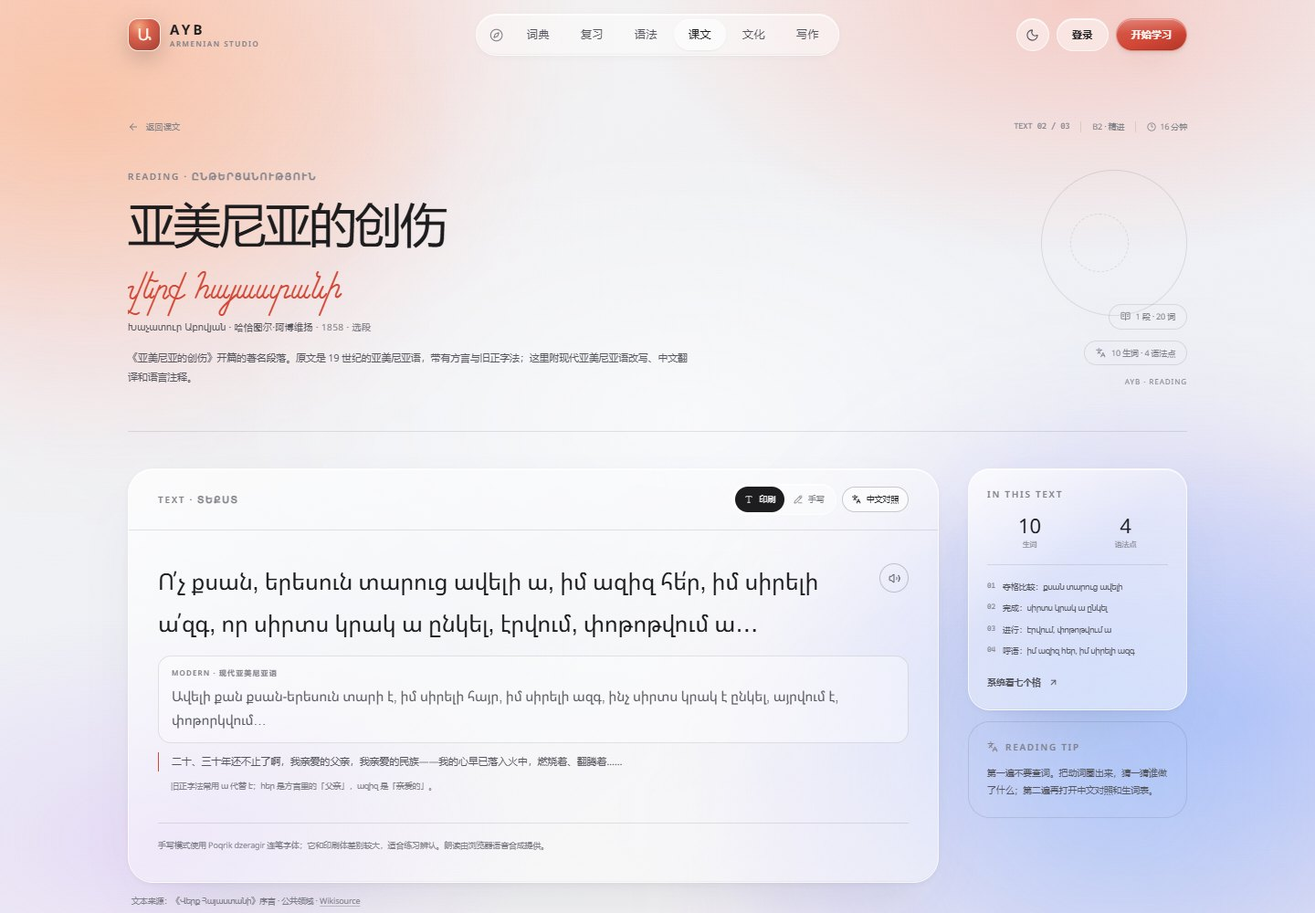
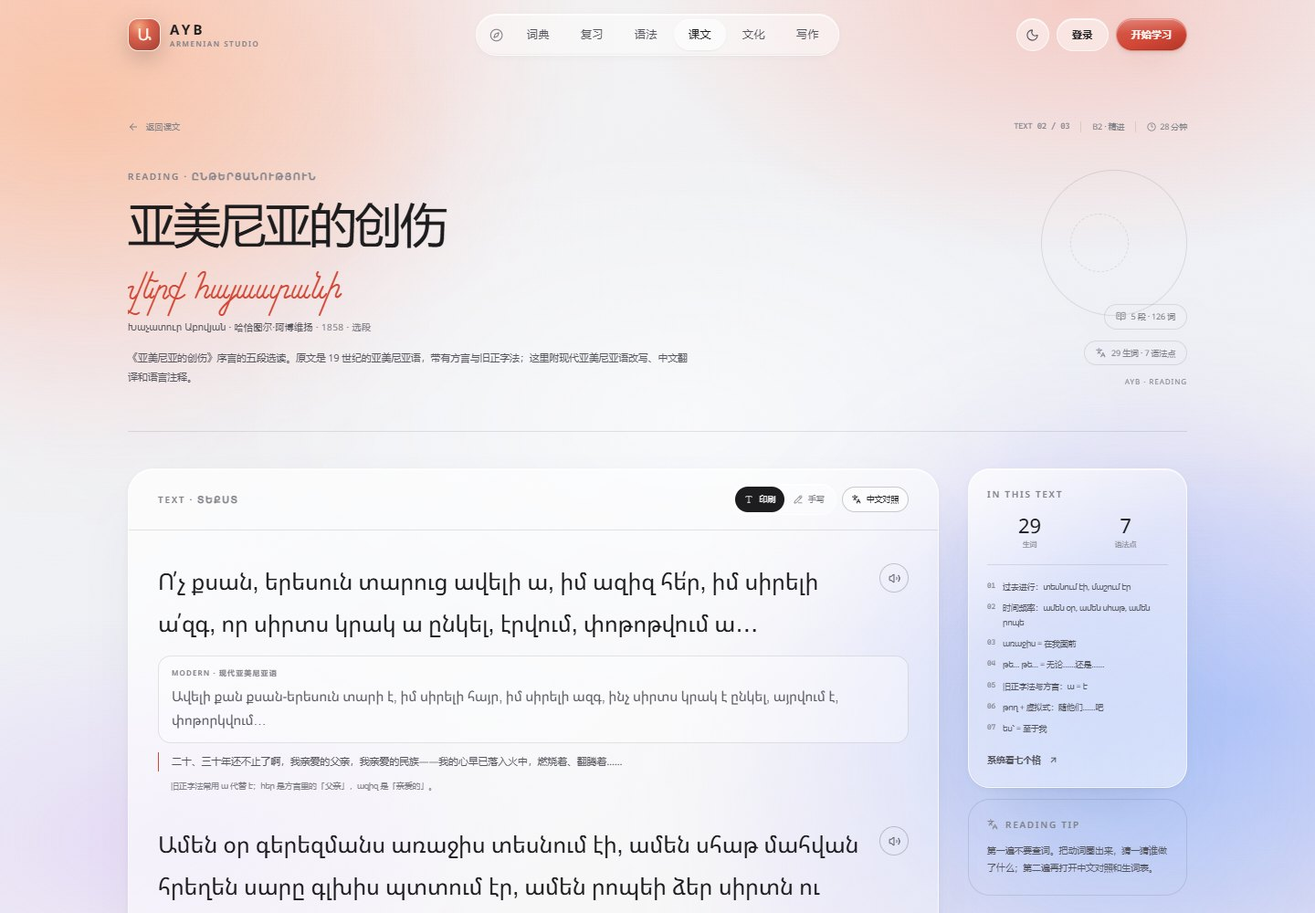
feat: expand the literary readings into full passages
Grow the Abovyan excerpt from one sentence to five paragraphs from the preface, with modern paraphrases, 29 vocabulary entries, and seven grammar notes. Include all four stanzas of Charents's poem with a line-by-line translation, 37 vocabulary entries, and five grammar notes. Preserve poetic line breaks in the reading viewer and refresh documentation screenshots.

diff --git a/src/data/reading/02-wounds-of-armenia.ts b/src/data/reading/02-wounds-of-armenia.ts
@@ -4,12 +4,12 @@ export const woundsOfArmenia: ReadingText = {
   id: "wounds-of-armenia",
   order: 2,
   level: "B2",
-  minutes: 16,
+  minutes: 28,
   title: "亚美尼亚的创伤",
   titleHy: "Վերք Հայաստանի",
   subtitle: "阿博维扬：把民族的痛写成一封长信",
   description:
-    "《亚美尼亚的创伤》开篇的著名段落。原文是 19 世纪的亚美尼亚语，带有方言与旧正字法；这里附现代亚美尼亚语改写、中文翻译和语言注释。",
+    "《亚美尼亚的创伤》序言的五段选读。原文是 19 世纪的亚美尼亚语，带有方言与旧正字法；这里附现代亚美尼亚语改写、中文翻译和语言注释。",
   author: "Խաչատուր Աբովյան · 哈恰图尔·阿博维扬",
   authorHy: "Խաչատուր Աբովյան",
   year: "1858",
@@ -24,60 +24,136 @@ export const woundsOfArmenia: ReadingText = {
       zh: "二十、三十年还不止了啊，我亲爱的父亲，我亲爱的民族——我的心早已落入火中，燃烧着、翻腾着……",
       note: "旧正字法常用 ա 代替 է；հեր 是方言里的「父亲」，ազիզ 是「亲爱的」。",
     },
+    {
+      hy: "Ամեն օր գերեզմանս առաջիս տեսնում էի, ամեն սհաթ մահվան հրեղեն սարը գլխիս պտտում էր, ամեն րոպեի ձեր սիրտն ու դարդը հոգիս էրում, մաշում էր…",
+      modernHy:
+        "Ամեն օր գերեզմանս առաջիս էի տեսնում, ամեն ժամ մահվան հրեղեն սարը գլխիս պտտվում էր, ամեն րոպե ձեր սիրտն ու դարդը հոգիս այրում, մաշում էր…",
+      zh: "每一天，我都看见自己的坟墓在眼前；每一个时辰，死亡那火焰般的山都在我头顶盘旋；每一分钟，你们的心和忧愁都在灼烧、消耗我的灵魂……",
+      note: "սհաթ 是方言里的「时辰、小时」，标准语是 ժամ；դարդ 是「忧愁、痛」。",
+    },
+    {
+      hy: "Մասիս առաջիս էր կանգնած միշտ, որ մատով ցույց էր տալիս, թե ի՞նչ աշխարքի ծնունդ եմ ես. դրախտը մտքումս էր կենդանի, որ ինձ, երազում թե լուրջ, միշտ մեր երկրի անունն ու պատվականությունը իմ առաջս էր բերում…",
+      modernHy:
+        "Մասիսը միշտ առաջիս կանգնած էր ու մատով ցույց էր տալիս, թե ես ո՞ր աշխարհի ծնունդն եմ. դրախտը մտքումս կենդանի էր, որ ինձ՝ երազում թե արթուն, միշտ մեր երկրի անունն ու պատիվը առաջս էր բերում…",
+      zh: "马西斯山总是站在我面前，用手指着我，仿佛在问：我究竟是哪个世界的孩子。天堂在我心里活着；无论梦境还是现实，它总把我们国家的名字与尊严带到我眼前……",
+      note: "Մասիս 是亚拉拉特山的亚美尼亚语名字；աշխարք 是方言里的「世界」，标准语是 աշխարհ。",
+    },
+    {
+      hy: "Մեկ ազգի պահողն էլ լեզուն ա ու հավատը, թե սրանց էլ կորցնենք՝ վա՜յն էկել ա մեր օրին։",
+      modernHy:
+        "Ազգը պահողը լեզուն ու հավատն են. եթե սրանք էլ կորցնենք՝ վայ մեր օրին։",
+      zh: "维系一个民族的，是它的语言与信仰；如果连这些也失去，我们的末日就来了。",
+      note: "վա՜յն էկել ա մեր օրին 是一句口语化的感叹：「我们的日子完了」。",
+    },
+    {
+      hy: "Թո՛ղ ինձ այսուհետև տգետ կանչեն. լեզուս բաց ա էլել, ի՛մ ընտիր, ազիզ, ի՛մ սրտի սիրեկան ազգ։ Թո՛ղ տրամաբանություն գիտեցողը իրան համքյարի համար գրի, ես՝ քո կորած, շվարած որդին, քեզ համար։",
+      modernHy:
+        "Թող ինձ այսուհետև տգետ կոչեն. լեզուս բացվել է, իմ ընտիր, ազիզ, իմ սրտի սիրելի ազգ։ Թող տրամաբանություն իմացողը գրի իր գործընկերոջ համար, ես՝ քո կորած, շվարած որդին, քեզ համար։",
+      zh: "从今以后，随他们叫我无知吧。我的舌头已经打开了，我亲爱的、珍贵的、我心中的爱人——我的民族。让懂逻辑的人为他的同行写作吧；我，你迷失的、彷徨的儿子，为你而写。",
+      note: "համքյար 是方言里的「同行、同事」；շվարած 是「彷徨的、不知所措的」。",
+    },
   ],
   vocabulary: [
+    { hy: "գերեզման", translit: "gerezmán", zh: "坟墓" },
+    { hy: "հրեղեն", translit: "hreghén", zh: "火焰般的；炽烈的" },
+    { hy: "սհաթ", translit: "shat", zh: "时辰；小时", note: "方言；标准语 ժամ" },
+    { hy: "դարդ", translit: "dard", zh: "忧愁；痛苦" },
+    { hy: "հոգի", translit: "hogi", zh: "灵魂；心" },
+    { hy: "մաշել", translit: "mashel", zh: "消耗；磨损" },
+    { hy: "քաղցր", translit: "k'aghc'r", zh: "甜的；甜美的" },
+    { hy: "ձեն", translit: "dzen", zh: "声音", note: "方言；标准语 ձայն" },
+    { hy: "սիրուն", translit: "sirun", zh: "美丽的；可爱的" },
+    { hy: "ազնիվ", translit: "azniv", zh: "诚实的；高尚的" },
+    { hy: "կամք", translit: "kamk'", zh: "意志" },
+    { hy: "վայելել", translit: "vayelel", zh: "享受；体验" },
     { hy: "ազիզ", translit: "aziz", zh: "亲爱的；珍贵的", note: "方言/口语色彩" },
-    { hy: "հեր", translit: "her", zh: "父亲", note: "方言；标准语是 հայր" },
-    { hy: "ազգ", translit: "azg", zh: "民族；族群" },
-    { hy: "քսան", translit: "k'san", zh: "二十" },
-    { hy: "երեսուն", translit: "eresun", zh: "三十" },
-    { hy: "ավելի", translit: "aveli", zh: "更多；更" },
-    { hy: "սիրտ", translit: "sirt", zh: "心" },
-    { hy: "կրակ", translit: "krak", zh: "火" },
-    { hy: "այրվել", translit: "ayrvel", zh: "燃烧；被烧" },
-    { hy: "փոթոթվել", translit: "p'ot'ot'vel", zh: "翻腾；激动不安" },
+    { hy: "բարեկամություն", translit: "barekamut'yun", zh: "友谊" },
+    { hy: "Մասիս", translit: "Masis", zh: "马西斯（亚拉拉特山）" },
+    { hy: "աշխարք", translit: "ashkhark'", zh: "世界", note: "方言；标准语 աշխարհ" },
+    { hy: "դրախտ", translit: "drakht", zh: "天堂；乐园" },
+    { hy: "պատվականություն", translit: "patvakanut'yun", zh: "尊严；荣誉" },
+    { hy: "պահող", translit: "pahogh", zh: "维系者；守护者" },
+    { hy: "հավատ", translit: "havat", zh: "信仰" },
+    { hy: "վայ", translit: "vay", zh: "哎呀；悲哀", note: "感叹词" },
+    { hy: "տգետ", translit: "tget", zh: "无知的；未受教育的" },
+    { hy: "ընտիր", translit: "entir", zh: "精选的；优秀的" },
+    { hy: "սիրեկան", translit: "sirekan", zh: "心爱的人；爱人" },
+    { hy: "տրամաբանություն", translit: "tramabanut'yun", zh: "逻辑" },
+    { hy: "համքյար", translit: "hamk'yar", zh: "同行；同事", note: "方言/口语" },
+    { hy: "կորած", translit: "korats", zh: "迷失的；丢失的" },
+    { hy: "շվարած", translit: "shvarats", zh: "彷徨的；不知所措的" },
+    { hy: "որդի", translit: "vordi", zh: "儿子" },
   ],
   grammarPoints: [
     {
-      title: "夺格比较：քսան տարուց ավելի",
+      title: "过去进行：տեսնում էի, մաշում էր",
       explanation:
-        "「比……更多」用夺格 + ավելի：քսան տարուց ավելի = 比二十年更多。比较的对象用 -ից。",
+        "「那时我每天看见」「它正在消耗」用过去进行时：动词 -ում 形式 + էի/էր/էին。它描述过去的持续状态，而不是一次完成的动作。",
       examples: [
-        { hy: "Քսան տարուց ավելի է։", zh: "已经超过二十年了。" },
-        { hy: "Երեսուն տարուց ավելի է անցել։", zh: "三十多年过去了。" },
+        { hy: "Ամեն օր գերեզմանս առաջիս տեսնում էի։", zh: "那时我每天都看见自己的坟墓在眼前。" },
+        { hy: "Ձեր դարդը հոգիս էրում էր։", zh: "你们的忧愁在灼烧我的灵魂。" },
       ],
     },
     {
-      title: "完成：սիրտս կրակ ա ընկել",
+      title: "时间频率：ամեն օր, ամեն սհաթ, ամեն րոպե",
       explanation:
-        "「心已经落入火中」用完成时 ընկել է（口语里读作 ա）。它强调动作造成的结果，而不是单纯的过去。",
+        "「每一天 / 每一个时辰 / 每一分钟」用 ամեն + 时间名词，不需要介词。现代亚美尼亚语里更常说 ամեն օր, ամեն ժամ, ամեն րոպե。",
       examples: [
-        { hy: "Սիրտս կրակ է ընկել։", zh: "我的心已经落入火中。" },
-        { hy: "Նա արդեն տուն է գնացել։", zh: "他已经回家了。" },
+        { hy: "Ամեն օր կարդում եմ։", zh: "我每天读书。" },
+        { hy: "Ամեն րոպե մտածում եմ քո մասին։", zh: "我每一分钟都在想你。" },
       ],
     },
     {
-      title: "进行：էրվում, փոթոթվում ա",
+      title: "առաջիս = 在我面前",
       explanation:
-        "现在时词干 + -ում է 表示正在进行：「正在燃烧、正在翻腾」。文学文本常用连续两个进行时来加强节奏。",
+        "առաջ 是「前面」，加上第一人称所有格 -ս 变成 առաջիս（在我面前）。同类还有 քո առաջդ（在你面前）、նրա առաջ（在他面前）。",
       examples: [
-        { hy: "Սիրտս էրվում է։", zh: "我的心在燃烧。" },
-        { hy: "Ծովը փոթորկվում է։", zh: "海在翻腾。" },
+        { hy: "Մասիսը առաջիս էր։", zh: "马西斯山在我面前。" },
+        { hy: "Քո առաջդ մի գիրք կա։", zh: "你面前有一本书。" },
       ],
     },
     {
-      title: "呼语：իմ ազիզ հեր, իմ սիրելի ազգ",
+      title: "թե… թե… = 无论……还是……",
       explanation:
-        "իմ + 名词是「我的……」。在呼语里，说话人直接对「父亲」「民族」说话，所以没有动词主语，语气也更强烈。",
+        "երազում թե լուրջ 字面是「在梦里还是认真/醒着」，意即「无论梦境还是现实」。թե 在这里连接两个并列的可能。",
       examples: [
-        { hy: "Իմ սիրելի ազգ։", zh: "我亲爱的民族。" },
-        { hy: "Իմ ազիզ հեր։", zh: "我亲爱的父亲。" },
+        { hy: "Երազում թե արթուն, միշտ մտածում եմ։", zh: "无论做梦还是醒着，我都在想。" },
+        { hy: "Թե՛ այսօր, թե՛ վաղը։", zh: "无论今天还是明天。" },
+      ],
+    },
+    {
+      title: "旧正字法与方言：ա = է",
+      explanation:
+        "19 世纪文本常把 է 写成 ա，把 ժամ 写成 սհաթ，把 աշխարհ 写成 աշխարք，把 ձայն 写成 ձեն。读原文时先按现代发音理解，再注意这些对应关系。",
+      examples: [
+        { hy: "Սիրտս կրակ ա ընկել։", zh: "现代写法：Սիրտս կրակ է ընկել。" },
+        { hy: "Մեկ ազգի պահողն էլ լեզուն ա։", zh: "现代写法：… լեզուն է。" },
+      ],
+    },
+    {
+      title: "թող + 虚拟式：随他们……吧",
+      explanation:
+        "թող 放在句首，后面的动词用虚拟式（կանչեն, գրի），表示「让/随……吧」。它可以是许可，也可以是一种带情绪的让步。",
+      examples: [
+        { hy: "Թո՛ղ ինձ տգետ կանչեն։", zh: "随他们叫我无知吧。" },
+        { hy: "Թո՛ղ նա գրի։", zh: "让他写吧。" },
+      ],
+    },
+    {
+      title: "ես՝ = 至于我",
+      explanation:
+        "ես 后面的 ՝ 是停顿/对比标记，意思是「至于我」。它把「别人」和「我」放在一起对照：让懂逻辑的人为同行写，至于我，为你写。",
+      examples: [
+        { hy: "Ես՝ քեզ համար։", zh: "至于我，是为你。" },
+        { hy: "Նա՝ իր համար, ես՝ իմը։", zh: "他为他自己的，我为我的。" },
       ],
     },
   ],
   takeaways: [
-    "这是 19 世纪文本：旧正字法、方言词和现代亚美尼亚语并不完全一样。",
-    "「比……更多」用夺格 + ավելի：տարուց ավելի。",
-    "完成时强调结果：կրակ է ընկել = 已经落入火中。",
+    "这五段都来自序言：阿博维扬不是在讲情节，而是在解释自己为什么必须写这本书。",
+    "过去进行 -ում էի/էր 描写持续的痛感；ամեն օր/սհաթ/րոպե 把时间切成越来越细的片段。",
+    "Մասիս（亚拉拉特山）在文本里不是风景，而是身份的发问者。",
+    "「语言与信仰维系民族」是全文的核心句，也是 19 世纪亚美尼亚启蒙运动的常见主题。",
+    "结尾的「让懂逻辑的人为同行写，我为你写」把这本书献给了普通读者，而不是学院。",
   ],
 };

diff --git a/src/data/reading/03-charents.ts b/src/data/reading/03-charents.ts
@@ -4,12 +4,12 @@ export const charentsHayastani: ReadingText = {
   id: "charents-hayastani",
   order: 3,
   level: "B1",
-  minutes: 10,
+  minutes: 16,
   title: "我爱我甜蜜的亚美尼亚",
   titleHy: "Ես իմ անուշ Հայաստանի",
   subtitle: "恰连茨：把祖国写成一个可以尝到的词",
   description:
-    "恰连茨最著名的诗句之一。两行诗里有一个属格、一个复合形容词和一个被放到句末的动词，适合拿来理解亚美尼亚语诗歌的语序。",
+    "恰连茨最著名的抒情诗之一，共四节。诗人从「词」写到琴弦、山、湖、茅屋、书和伤口，最后落在亚拉拉特山。这里保留全诗四节，并附逐节中文翻译和语言注释。",
   author: "Եղիշե Չարենց · 耶吉舍·恰连茨",
   authorHy: "Եղիշե Չարենց",
   year: "1920",
@@ -17,9 +17,24 @@ export const charentsHayastani: ReadingText = {
   source: "《Ես իմ անուշ Հայաստանի》· 公共领域",
   paragraphs: [
     {
-      hy: "Ես իմ անուշ Հայաստանի\nարևահամ բառն եմ սիրում։",
-      zh: "我爱我甜蜜的亚美尼亚，那被阳光浸透的词。",
+      hy: "Ես իմ անուշ Հայաստանի արևահամ բառն եմ սիրում,\nՄեր հին սազի ողբանվագ, լացակումած լարն եմ սիրում,\nԱրնանման ծաղիկների ու վարդերի բույրը վառման,\nՈւ նաիրյան աղջիկների հեզաճկուն պա՛րն եմ սիրում։",
+      zh: "我爱我甜蜜的亚美尼亚，那被阳光浸透的词，\n我爱我们古老萨兹琴那哀歌般、含泪的弦，\n那血一般红的花朵与玫瑰炽热的芬芳，\n还有奈里少女柔韧的舞，我都爱。",
       note: "բառն = բառ + -ն（定冠词）；արևահամ 字面是「太阳的味道」。",
+    },
+    {
+      hy: "Սիրում եմ մեր երկինքը մուգ, ջրերը ջինջ, լիճը լուսե,\nԱրևն ամռան ու ձմեռվա վիշապաձայն բուքը վսեմ,\nՄթում կորած խրճիթների անհյուրընկալ պատերը սև,\nՈւ հնամյա քաղաքների հազարամյա քա՛րն եմ սիրում։",
+      zh: "我爱我们幽暗的天空、清澈的水、明亮的湖，\n夏日骄阳与冬日巨龙般咆哮的庄严暴风雪，\n黑暗中迷失的茅屋那冷漠的黑色墙壁，\n还有古老城市千年的石头，我都爱。",
+      note: "երկինքը մուգ = 幽暗的天空；ջրերը ջինջ = 清澈的水；բուք = 暴风雪。",
+    },
+    {
+      hy: "Ո՛ւր էլ լինեմ — չե՛մ մոռանա ես ողբաձայն երգերը մեր,\nՉե՜մ մոռանա աղոթք դարձած երկաթագիր գրքերը մեր,\nԻնչքան էլ սո՜ւր սիրտս խոցեն արյունաքամ վերքերը մեր —\nԷլի՛ ես որբ ու արնավառ իմ Հայաստան — յա՛րն եմ սիրում։",
+      zh: "无论我身在何处——我不会忘记我们那哀歌般的歌，\n不会忘记我们那化作祈祷的铁字书，\n无论我们流血枯竭的伤口多么隐秘地刺痛我的心——\n我仍然爱我这孤儿般、浸满鲜血的亚美尼亚——我的爱人。",
+      note: "որբ = 孤儿；արնավառ = 被血染亮的；յար = 爱人、心爱的人。",
+    },
+    {
+      hy: "Իմ կարոտած սրտի համար ո՛չ մի ուրիշ հեքիաթ չկա․\nՆարեկացու, Քուչակի պես լուսապսակ ճակատ չկա․\nԱշխա՛րհ անցի՛ր, Արարատի նման ճերմակ գագաթ չկա․\nԻնչպես անհաս փառքի ճամփա՝ ես իմ Մասիս սա՛րն եմ սիրում։",
+      zh: "对我这思念的心，没有别的童话；\n没有像纳雷卡齐、库恰克那样光环笼罩的额头；\n让世界过去吧，没有像亚拉拉特那样洁白的峰顶；\n像一条通往不可企及之荣耀的路——我爱我的马西斯山。",
+      note: "Նարեկացի（纳雷卡齐）与 Քուչակ（库恰克）都是亚美尼亚中世纪诗人；Մասիս 是亚拉拉特山。",
     },
   ],
   vocabulary: [
@@ -27,40 +42,91 @@ export const charentsHayastani: ReadingText = {
     { hy: "Հայաստան", translit: "Hayastan", zh: "亚美尼亚" },
     { hy: "արևահամ", translit: "arevaham", zh: "有阳光味道的；被阳光浸透的" },
     { hy: "բառ", translit: "barr", zh: "词" },
-    { hy: "սիրել", translit: "sirel", zh: "爱；喜欢" },
+    { hy: "սազ", translit: "saz", zh: "萨兹琴（长颈弹拨乐器）" },
+    { hy: "ողբանվագ", translit: "voghbanvag", zh: "哀歌般的；悲调的" },
+    { hy: "լացակումած", translit: "latsakumats", zh: "含泪的；哭泣的" },
+    { hy: "լար", translit: "lar", zh: "弦" },
+    { hy: "արնանման", translit: "arnanman", zh: "血一般的" },
+    { hy: "բույր", translit: "buyr", zh: "气味；芬芳" },
+    { hy: "վառման", translit: "varman", zh: "燃烧的；炽热的" },
+    { hy: "նաիրյան", translit: "nairyan", zh: "奈里（Nairi）的" },
+    { hy: "հեզաճկուն", translit: "hezachkun", zh: "柔韧的；轻盈的" },
+    { hy: "պար", translit: "par", zh: "舞；舞蹈" },
+    { hy: "ջինջ", translit: "jindj", zh: "清澈的；纯净的" },
+    { hy: "լուսե", translit: "luse", zh: "明亮的；发光的" },
+    { hy: "վիշապաձայն", translit: "vishapadzayn", zh: "巨龙般声音的" },
+    { hy: "բուք", translit: "buk'", zh: "暴风雪" },
+    { hy: "վսեմ", translit: "vsem", zh: "庄严的；崇高的" },
+    { hy: "խրճիթ", translit: "khrtchit'", zh: "茅屋；小屋" },
+    { hy: "անհյուրընկալ", translit: "anhyurnkal", zh: "不欢迎人的；冷漠的" },
+    { hy: "հնամյա", translit: "hnamya", zh: "古老的" },
+    { hy: "հազարամյա", translit: "hazaramya", zh: "千年的" },
+    { hy: "ողբաձայն", translit: "voghbadzayn", zh: "哀歌般的" },
+    { hy: "երկաթագիր", translit: "erkat'agir", zh: "铁字书体" },
+    { hy: "արյունաքամ", translit: "aryunak'am", zh: "流血枯竭的" },
+    { hy: "վերք", translit: "verk'", zh: "伤口" },
+    { hy: "որբ", translit: "vorb", zh: "孤儿" },
+    { hy: "արնավառ", translit: "arnavar", zh: "被血染亮的；血红的" },
+    { hy: "յար", translit: "yar", zh: "爱人；心爱的人" },
+    { hy: "կարոտած", translit: "karotats", zh: "思念的；渴望的" },
+    { hy: "հեքիաթ", translit: "hek'iat'", zh: "童话；故事" },
+    { hy: "լուսապսակ", translit: "lusapsak", zh: "光环笼罩的" },
+    { hy: "ճերմակ", translit: "chermak", zh: "洁白的" },
+    { hy: "գագաթ", translit: "gagat'", zh: "峰顶" },
+    { hy: "անհաս", translit: "anhas", zh: "不可企及的" },
+    { hy: "Մասիս", translit: "Masis", zh: "马西斯（亚拉拉特山）" },
   ],
   grammarPoints: [
     {
       title: "属格：իմ անուշ Հայաստանի",
       explanation:
-        "իմ = 我的；անուշ Հայաստանի = 甜蜜的亚美尼亚（属格）。整句是「我甜蜜的亚美尼亚的……」。属格在这里表示所属/修饰。",
+        "իմ = 我的；անուշ Հայաստանի = 甜蜜的亚美尼亚（属格）。属格在这里表示所属/修饰，后面的 բառն 才是主要名词。",
       examples: [
         { hy: "իմ անուշ Հայաստանի բառը", zh: "我甜蜜的亚美尼亚的词" },
         { hy: "Հայաստանի սարերը", zh: "亚美尼亚的山" },
       ],
     },
     {
-      title: "复合形容词：արևահամ",
+      title: "复合形容词：արևահամ, արնանման, վիշապաձայն",
       explanation:
-        "արև（太阳）+ համ（味道）组成 արևահամ，字面是「太阳的味道」，诗歌里译成「被阳光浸透的」。亚美尼亚语常用名词 + համ 构成味觉形容词。",
+        "亚美尼亚语常用「名词 + համ/նման/ձայն/ամյա」造复合形容词：արև（太阳）+ համ（味道）= 有阳光味道的；արուն（血）+ նման（像）= 血一般的；վիշապ（龙）+ ձայն（声音）= 龙声的。",
       examples: [
         { hy: "արևահամ բառ", zh: "被阳光浸透的词" },
-        { hy: "մեղրահամ թեյ", zh: "有蜂蜜味道的茶" },
+        { hy: "վիշապաձայն բուք", zh: "巨龙般咆哮的暴风雪" },
       ],
     },
     {
-      title: "动词后置：եմ սիրում",
+      title: "宾语前置：… բառն եմ սիրում",
       explanation:
-        "「我爱」是 սիրում եմ；诗里把宾语放到前面，动词留在句末，形成「……我爱」的节奏。亚美尼亚语的语序比中文灵活，诗歌尤其如此。",
+        "「我爱」是 սիրում եմ；诗里把宾语放到前面，动词留在句末，形成「……我爱」的节奏。亚美尼亚语语序比中文灵活，诗歌尤其如此。",
       examples: [
         { hy: "Ես սիրում եմ Հայաստանը։", zh: "我爱亚美尼亚。" },
         { hy: "Ես իմ Հայաստանն եմ սիրում։", zh: "我爱我的亚美尼亚。" },
       ],
     },
+    {
+      title: "ոչ մի = 没有一个",
+      explanation:
+        "ոչ մի + 名词 = 「没有一个……」。诗里「ոչ մի ուրիշ հեքիաթ չկա」= 没有别的童话。否定句里动词前还要加 չ-。",
+      examples: [
+        { hy: "Ոչ մի ուրիշ հեքիաթ չկա։", zh: "没有别的童话。" },
+        { hy: "Ոչ մի մարդ չկար։", zh: "一个人也没有。" },
+      ],
+    },
+    {
+      title: "诗歌祈使：Աշխա՛րհ անցի՛ր",
+      explanation:
+        "անցնել 是「经过、过去」；անցի՛ր 是第二人称单数祈使「你过去吧」。诗人对「世界」说话，让世界退场。词上的 ՛ 表示重音。",
+      examples: [
+        { hy: "Աշխարհը անցավ։", zh: "世界过去了。" },
+        { hy: "Անցի՛ր, մի՛ կանգնիր։", zh: "过去吧，别停下。" },
+      ],
+    },
   ],
   takeaways: [
-    "իմ անուշ Հայաստանի 是属格结构：我甜蜜的亚美尼亚的……",
-    "արևահամ 是「太阳 + 味道」组成的复合形容词。",
-    "诗歌把动词放到句末，让宾语和修饰语先出现。",
+    "全诗四节，不是四段独立的诗：从「词」开始，最后回到「山」，把语言、土地和记忆串成一条线。",
+    "诗人反复用「եմ սիրում / սիրում եմ」把「我爱」放在句末，制造一种缓慢、执拗的语气。",
+    "复合形容词是这首诗的声音核心：太阳的味道、血的颜色、龙的声音。",
+    "Մասիս（亚拉拉特山）在这里既是地理，也是不可企及的荣耀。",
   ],
 };

diff --git a/src/components/reading/reading-paragraphs.tsx b/src/components/reading/reading-paragraphs.tsx
@@ -71,7 +71,7 @@ export function ReadingParagraphs({ paragraphs }: { paragraphs: ReadingParagraph
               <div className="flex items-start justify-between gap-3">
                 <p
                   className={cn(
-                    "min-w-0 flex-1 text-[var(--ink)]",
+                    "min-w-0 flex-1 whitespace-pre-line text-[var(--ink)]",
                     script === "hand"
                       ? "font-hand text-[25px] leading-[2] md:text-[28px]"
                       : "font-arm text-[22px] leading-[1.85] md:text-[25px]",
@@ -89,13 +89,13 @@ export function ReadingParagraphs({ paragraphs }: { paragraphs: ReadingParagraph
                   <p className="text-[8px] font-semibold tracking-[0.14em] text-[var(--faint)]">
                     MODERN · 现代亚美尼亚语
                   </p>
-                  <p className="mt-1.5 font-arm text-[15px] leading-[1.75] text-[var(--muted)]" lang="hy">
+                  <p className="mt-1.5 whitespace-pre-line font-arm text-[15px] leading-[1.75] text-[var(--muted)]" lang="hy">
                     {paragraph.modernHy}
                   </p>
                 </div>
               )}
               {showZh && (
-                <p className="mt-2.5 border-l border-[var(--accent)] pl-3.5 text-[11px] leading-[1.9] text-[var(--muted)]">
+                <p className="mt-2.5 whitespace-pre-line border-l border-[var(--accent)] pl-3.5 text-[11px] leading-[1.9] text-[var(--muted)]">
                   {paragraph.zh}
                 </p>
               )}

diff --git a/src/app/reading/page.tsx b/src/app/reading/page.tsx
@@ -112,11 +112,11 @@ export default async function ReadingPage() {
             <div>
               <p className="eyebrow">Texts · Տեքստեր</p>
               <h2 className="mt-3 text-[28px] font-medium tracking-[-0.035em] text-[var(--ink)] md:text-[36px]">
-                从这一篇开始。
+                三篇，三种读法。
               </h2>
             </div>
             <p className="max-w-[260px] text-[10px] leading-[1.8] text-[var(--faint)] sm:text-right">
-              篇幅会慢慢变长。
+              从日常生活到诗，再到 19 世纪的长句。
               <br />
               每篇都保留生词和语法索引。
             </p>
